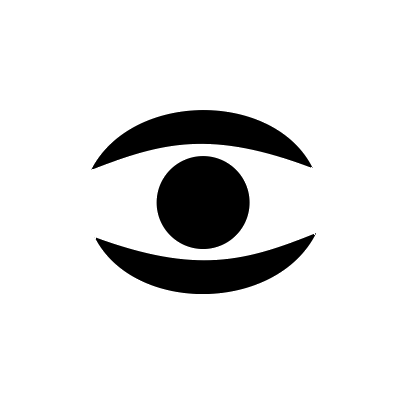
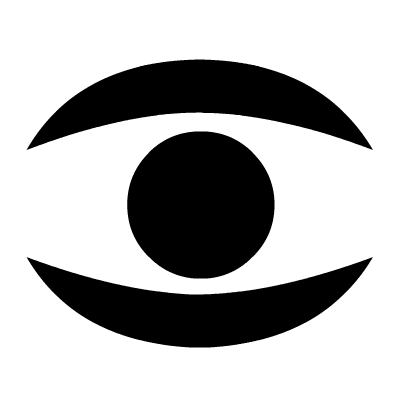
new picto with white background

Changed region(s): [[0.06, 0.15, 0.93, 0.87]]

diff --git a/app/src/main/resources/public/css/desktop.css b/app/src/main/resources/public/css/desktop.css
@@ -28,7 +28,7 @@ img {
   background-size: auto 50px;
   height: 72px;
   width: 83px;
-  right: 140px;
+  right: 150px;
 }
 
 .tooltip_eye {
@@ -36,7 +36,7 @@ img {
   background-size: auto 50px;
   height: 50px;
   width: 83px;
-  right: 75px;
+  right: 80px;
 }
 
 
